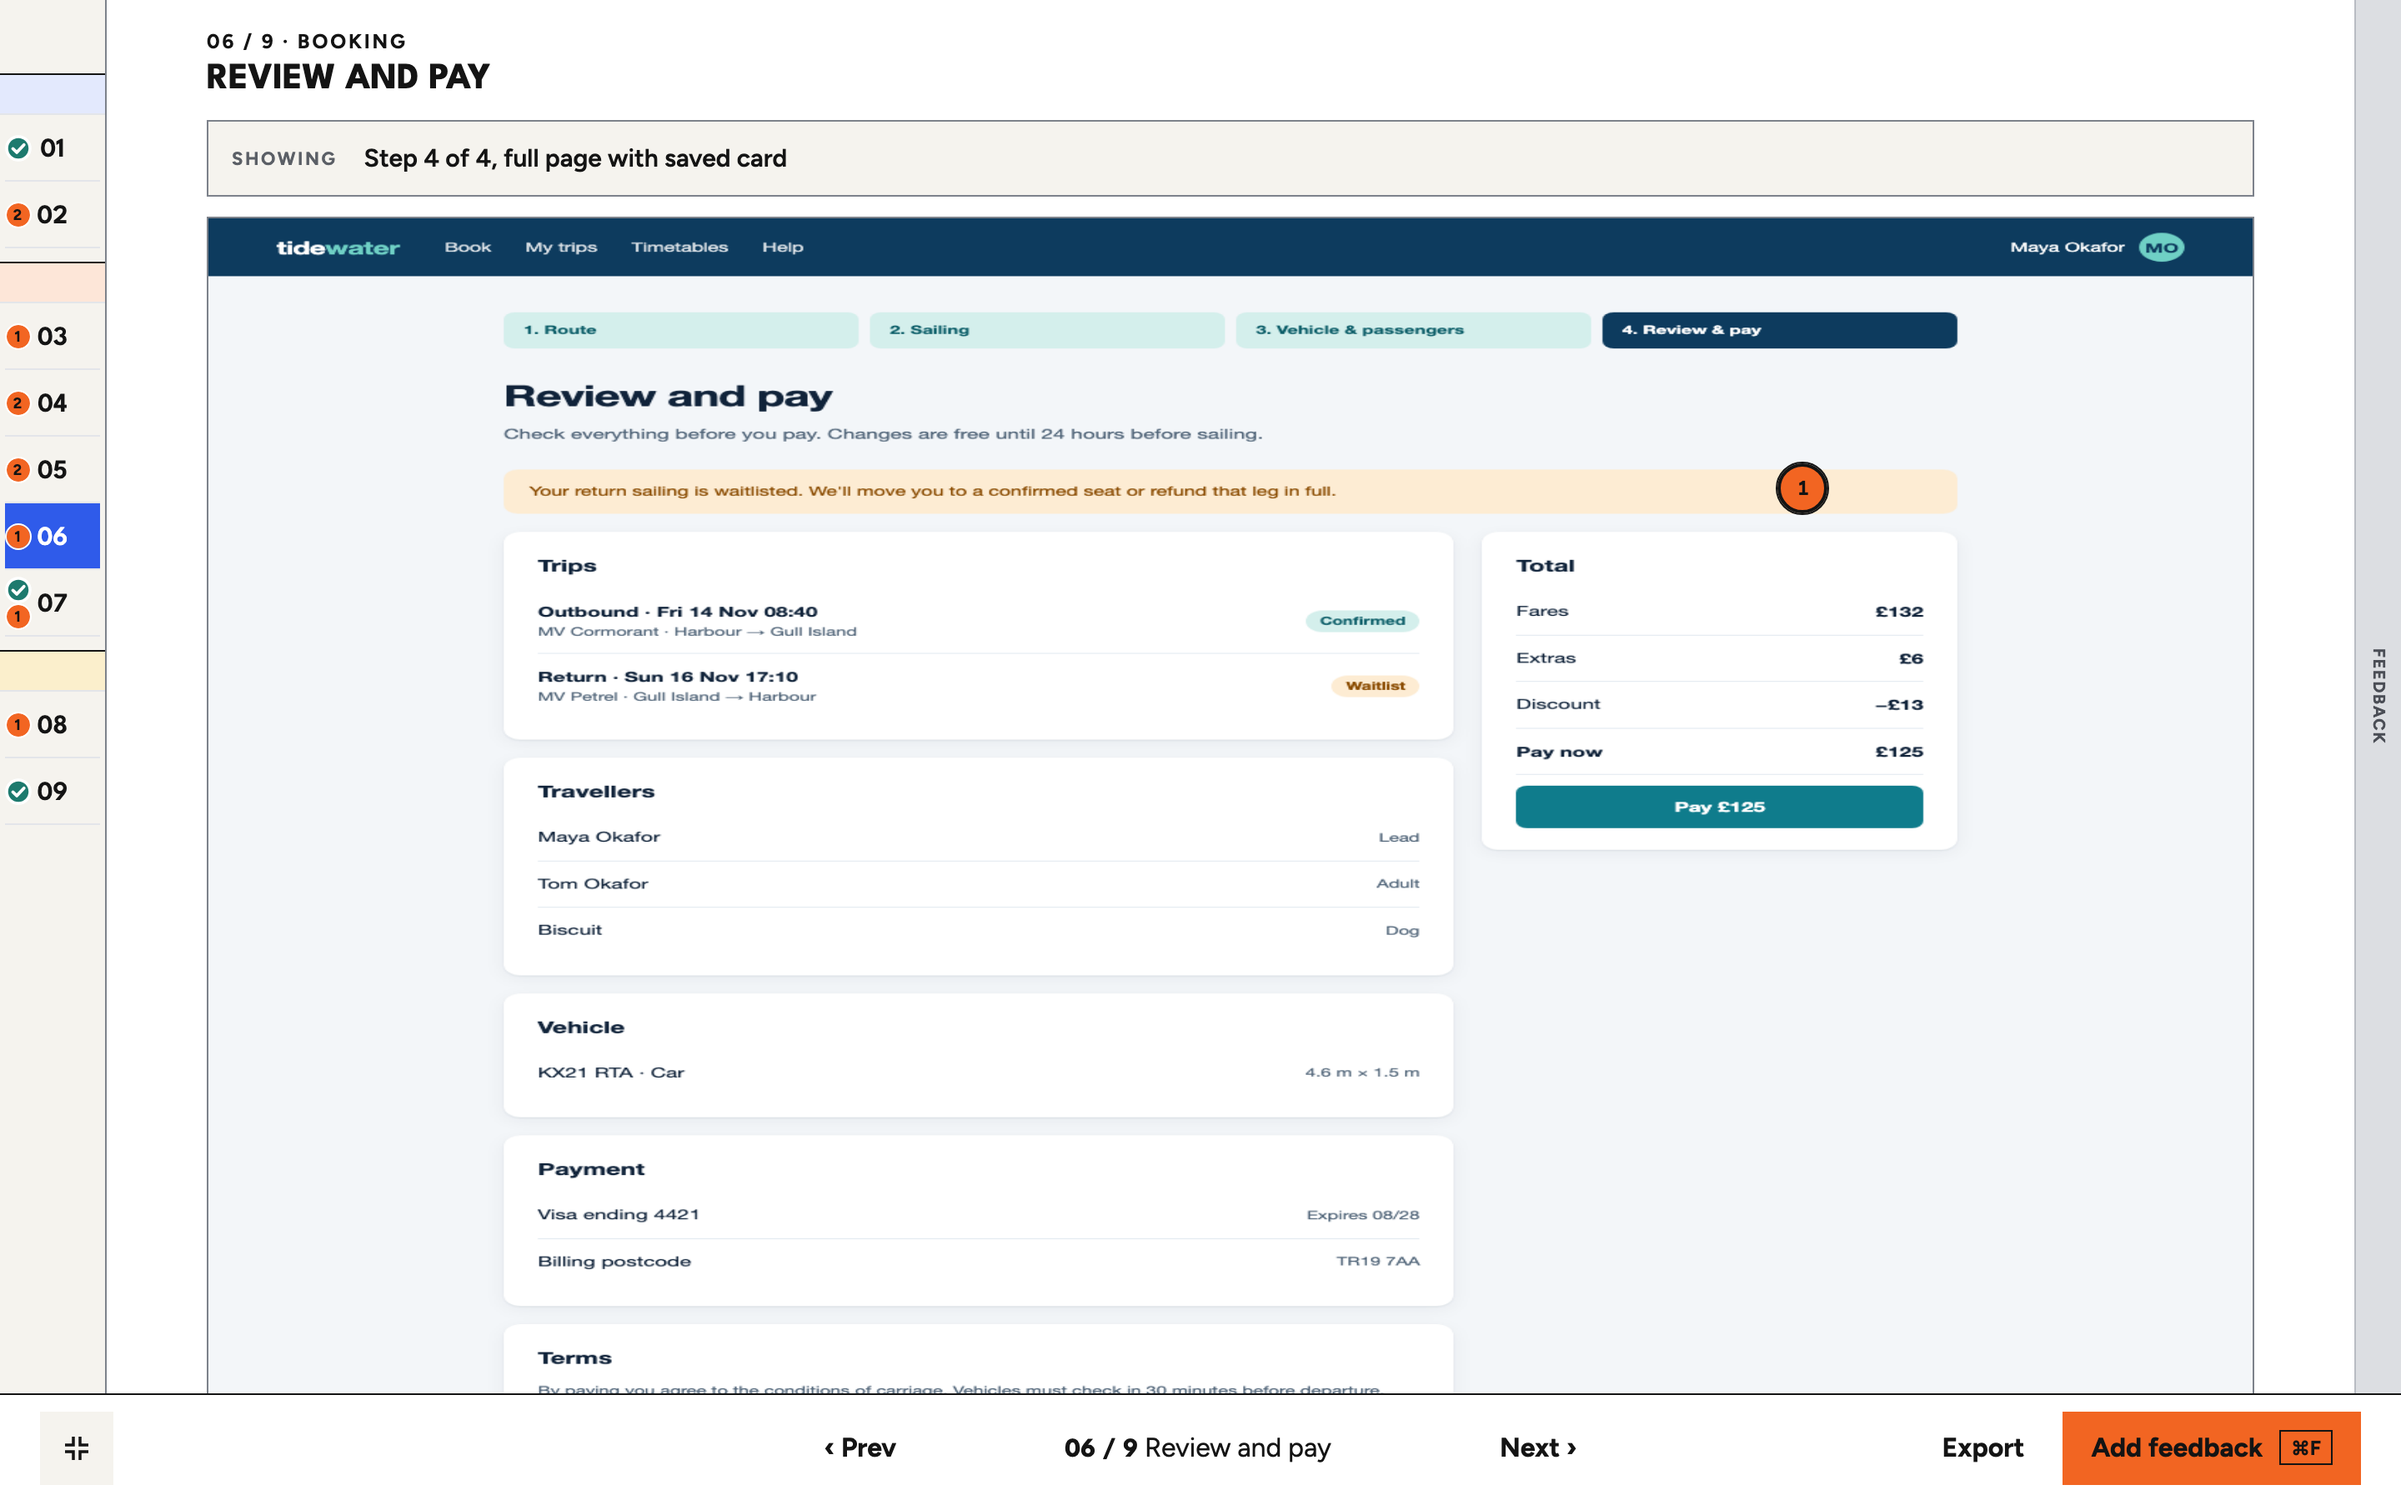
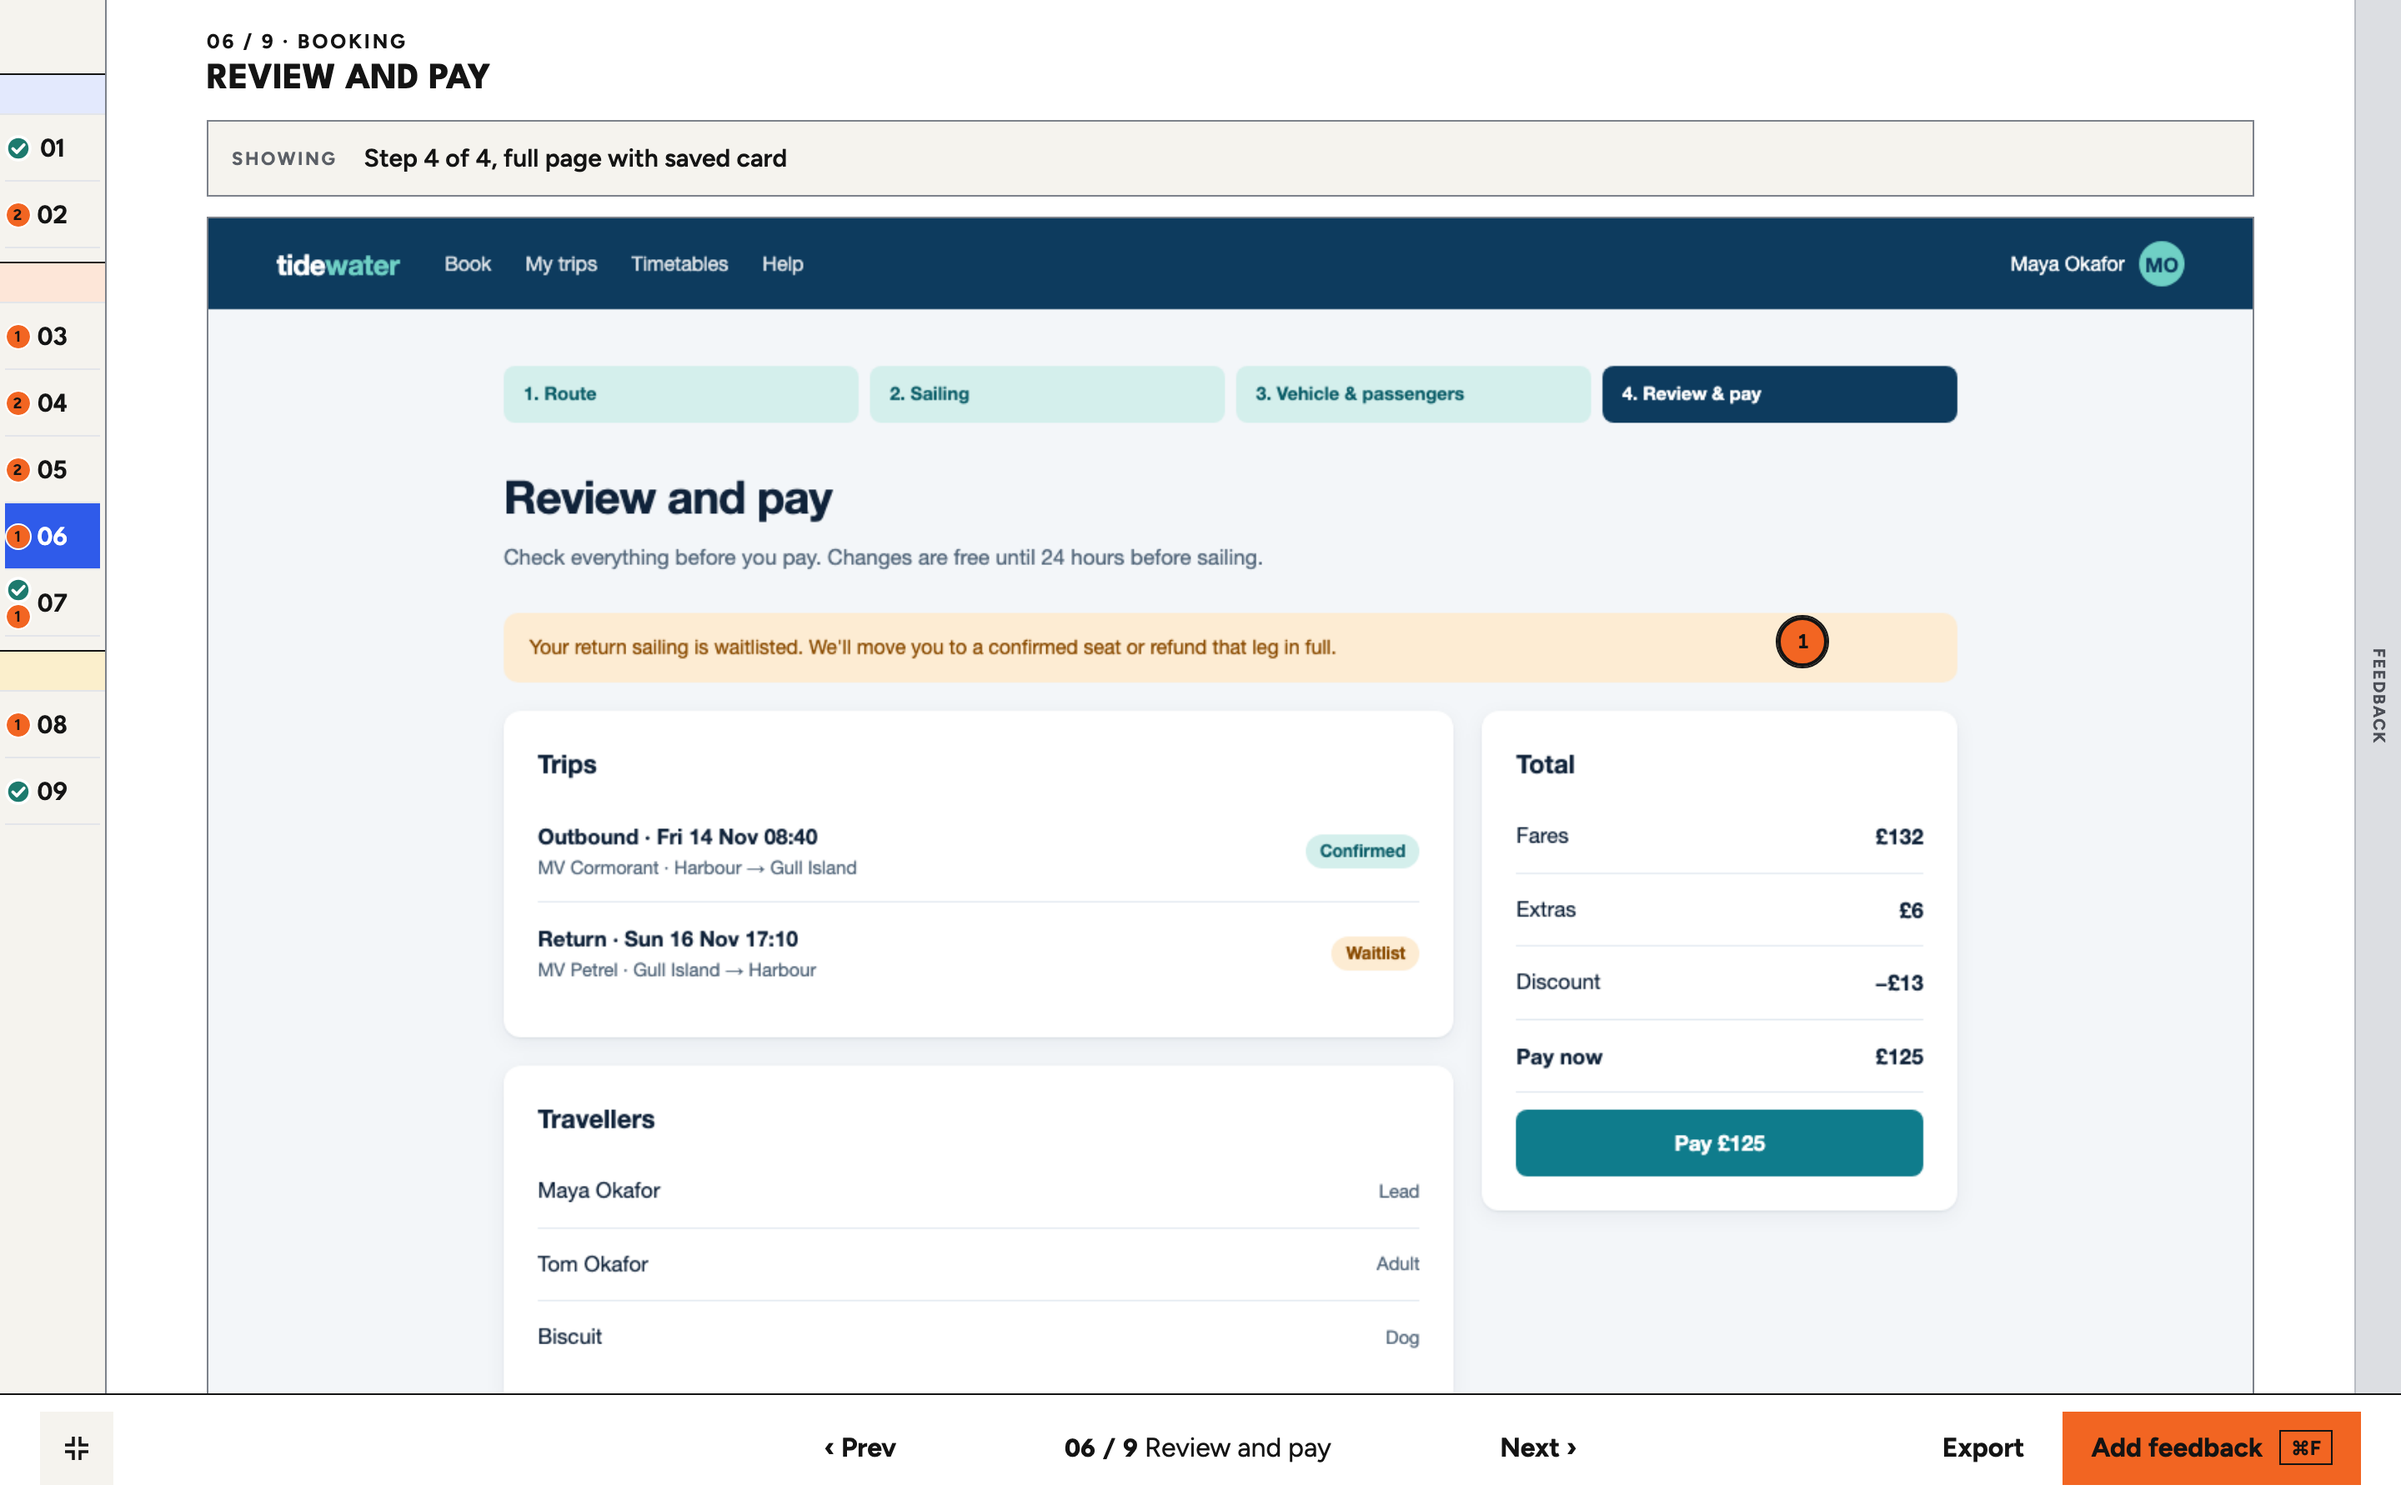
Show captures at their own proportions instead of stretching them
The screen frame took its aspect ratio from the registered viewport, so a
full-page capture taller than that viewport was squashed to fit. The frame
now adopts the loaded image's natural size; pins are stored relative to
the frame, so they stay on the same content. Site screenshots refreshed.

Copilot-Session: 70ee0a7d-6d69-4048-ab99-52f2c6485819

diff --git a/src/client/app.tsx b/src/client/app.tsx
@@ -194,6 +194,13 @@ export function App() {
   const selected = screens.find((item) => item.id === selectedId)!;
   const selectedIndex = screens.indexOf(selected);
   const [captureFailed, setCaptureFailed] = useState(false);
+  // A full-page capture can be taller than the registered viewport, so the
+  // frame takes the loaded image's own proportions rather than stretching it.
+  const [captureSize, setCaptureSize] = useState<{
+    key: string;
+    width: number;
+    height: number;
+  } | null>(null);
   const panelRef = useRef<HTMLDivElement>(null);
   const gridRef = useRef<HTMLElement>(null);
   useFollowPage(panelRef, 64);
@@ -656,6 +663,9 @@ export function App() {
       version={version}
     />
   );
+  const captureKey = `${project.id}/${version}/${selected.id}`;
+  const frameSize =
+    captureSize?.key === captureKey ? captureSize : selected.viewport;
   const canvas = (
     <section
       className="review-canvas"
@@ -710,8 +720,8 @@ export function App() {
         }}
         style={
           {
-            "--screen-ratio": `${selected.viewport.width} / ${selected.viewport.height}`,
-            "--screen-width": `${selected.viewport.width}px`,
+            "--screen-ratio": `${frameSize.width} / ${frameSize.height}`,
+            "--screen-width": `${frameSize.width}px`,
           } as CSSProperties
         }
       >
@@ -720,8 +730,18 @@ export function App() {
             alt={`${selected.title} capture`}
             className="screen-capture"
             draggable={false}
-            key={`${project.id}/${version}/${selected.id}`}
+            key={captureKey}
             onError={() => setCaptureFailed(true)}
+            onLoad={(event) => {
+              const { naturalWidth, naturalHeight } = event.currentTarget;
+              if (naturalWidth && naturalHeight) {
+                setCaptureSize({
+                  key: captureKey,
+                  width: naturalWidth,
+                  height: naturalHeight,
+                });
+              }
+            }}
             src={captureUrl(project.id, version, selected.id)}
           />
         ) : (

diff --git a/tests/capture-frame.test.tsx b/tests/capture-frame.test.tsx
@@ -1,0 +1,56 @@
+import { cleanup, fireEvent, render, screen } from "@testing-library/react";
+import { afterEach, beforeEach, describe, expect, it } from "vitest";
+
+import { App } from "../src/client/app";
+import { EXAMPLE_PROJECT } from "../src/server/projects";
+import { installFakeFeedbackApi } from "./helpers/fake-feedback-api";
+
+let api: Awaited<ReturnType<typeof installFakeFeedbackApi>>;
+let realFetch: typeof fetch;
+
+beforeEach(async () => {
+  api = await installFakeFeedbackApi();
+  realFetch = globalThis.fetch;
+  const withCaptures = {
+    ...EXAMPLE_PROJECT,
+    screens: EXAMPLE_PROJECT.screens.map((item) => ({
+      ...item,
+      hasCapture: true,
+    })),
+  };
+  globalThis.fetch = (async (url: string, init?: RequestInit) => {
+    if (new URL(url, "http://127.0.0.1").pathname === "/api/projects") {
+      return new Response(
+        JSON.stringify({ projects: [withCaptures], problems: [] }),
+        { status: 200, headers: { "content-type": "application/json" } },
+      );
+    }
+    return realFetch(url, init);
+  }) as typeof fetch;
+});
+
+afterEach(async () => {
+  globalThis.fetch = realFetch;
+  cleanup();
+  localStorage.clear();
+  await api.dispose();
+});
+
+describe("capture frame", () => {
+  it("takes a tall full-page capture's own proportions instead of squashing it", async () => {
+    render(<App />);
+    const image = await screen.findByRole("img", { name: /capture$/ });
+    const frame = screen.getByTestId("screen-frame");
+    const { width, height } = EXAMPLE_PROJECT.screens[0]!.viewport;
+    expect(frame.style.getPropertyValue("--screen-ratio")).toBe(
+      `${width} / ${height}`,
+    );
+
+    Object.defineProperty(image, "naturalWidth", { value: 1440 });
+    Object.defineProperty(image, "naturalHeight", { value: 2600 });
+    fireEvent.load(image);
+
+    expect(frame.style.getPropertyValue("--screen-ratio")).toBe("1440 / 2600");
+    expect(frame.style.getPropertyValue("--screen-width")).toBe("1440px");
+  });
+});

diff --git a/README.md b/README.md
@@ -68,7 +68,9 @@ The server binds to `http://127.0.0.1:4173`.
 - Real captures: registered projects are read from
   `~/.screen-review-workbench/projects/*.json` (override with
   `SCREEN_REVIEW_PROJECTS`) and each screen's capture is shown at full width.
-  Tall captures make the page longer; the page is the scroll area, the screen
+  The frame takes each capture's own proportions (never stretched to the
+  registered viewport), so tall captures make the page longer; the page is the
+  scroll area, the screen
   list keeps its place, and the feedback panel follows along.
 - A fixed action bar keeps the fullscreen toggle (left), Prev/Next and the
   current screen (centre), and **Export** and **Add feedback** (right) in reach at the bottom
